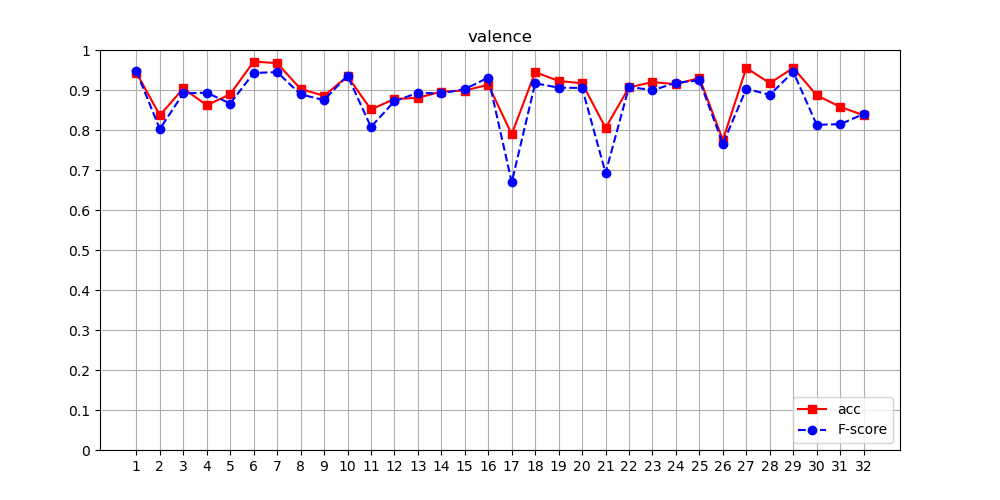
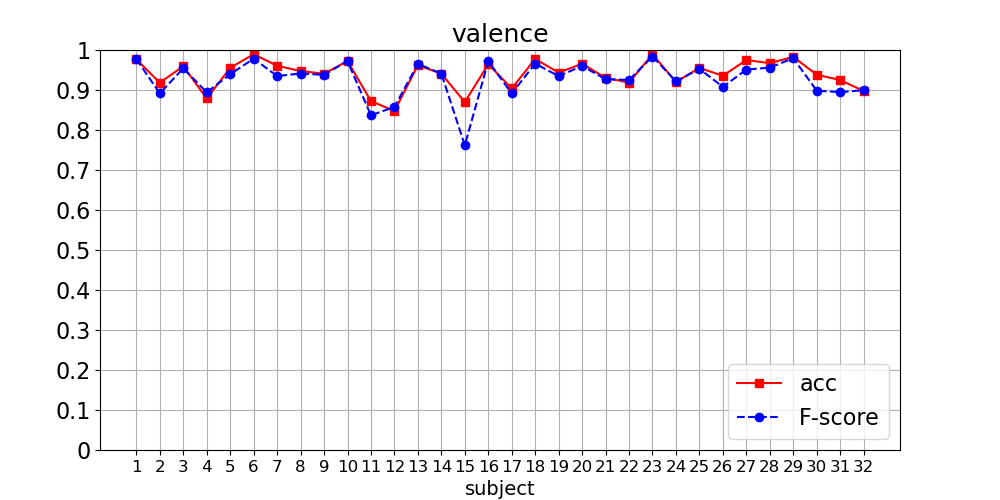
v0.4

diff --git a/train.py b/train.py
@@ -10,22 +10,34 @@ from deap import DeapDataset
 from model import ECLGCNN
 
 
-# parameters for training
 device = torch.device('cuda' if torch.cuda.is_available() else 'cpu')
 loss_fn = nn.CrossEntropyLoss().to(device)
-batch_size = 32
-max_iteration = 5000  # maximum number of iterations
-e = 0.1  # stop iteration threshold
-lr = 0.003  # learning rate
-alpha = 0.0008  # regularization coefficient
-k_fold = 5
-model_dir = './model/'
-img_dir = './imgs/'
 
-# parameters of model
-K = 2
-T = 6
-num_cells = 30
+model_dir = './model/'
+if not os.path.exists(model_dir):
+    os.mkdir(model_dir)
+
+img_dir = './imgs/'
+if not os.path.exists(img_dir):
+    os.mkdir(img_dir)
+
+seeds = range(0, 3)
+for seed in seeds:
+    model_seed_dir = model_dir + f'seed{seed}'
+    if not os.path.exists(model_seed_dir):
+        os.mkdir(model_seed_dir)
+
+    img_seed_dir = img_dir + f'seed{seed}'
+    if not os.path.exists(img_seed_dir):
+        os.mkdir(img_seed_dir)
+
+label_types = ['valence', 'arousal', 'dominance']
+params = {
+    'T': 6,
+    'batch_size': 32,
+    'max_iteration': 5000,  # maximum number of iterations
+    'k_fold': 5,
+}
 
 
 def train(model, device, train_data, train_labels, loss_fn, optimizer):
@@ -36,6 +48,7 @@ def train(model, device, train_data, train_labels, loss_fn, optimizer):
 
     model.to(device)
     model.train()
+    batch_size = params['batch_size']
 
     step = 0
     flag = True
@@ -48,9 +61,9 @@ def train(model, device, train_data, train_labels, loss_fn, optimizer):
             loss = loss_fn(output, label)
 
             if step % 100 == 0:
-                print(f'setp: {step}, Loss: {loss.item()}')
+                print(f'step: {step}, Loss: {loss.item()}')
 
-            if loss < e:
+            if loss < params['e']:
                 flag = False
                 break
 
@@ -59,7 +72,7 @@ def train(model, device, train_data, train_labels, loss_fn, optimizer):
             optimizer.step()
 
             step += 1
-            if step >= max_iteration:
+            if step >= params['max_iteration']:
                 flag = False
                 break
 
@@ -149,8 +162,32 @@ def binary_sampling(data, label):
         return selected_data, selected_label
 
 
-def subject_cross_validation(data, labels, seed):
-    splits = KFold(n_splits=k_fold, shuffle=True, random_state=seed)
+def output_figure(path, acc, f_score, title):
+    fig = plt.figure(figsize=(10, 5))
+    axes = fig.add_axes([0.1, 0.1, 0.8, 0.8])
+    x = np.arange(1, 33, dtype=int)
+
+    axes.plot(x, acc, 'rs-')  # 红色，正方形点，实线
+    axes.plot(x, f_score, 'bo--')  # 蓝色，圆点，虚线
+    axes.legend(labels=('acc', 'F-score'), loc='lower right', fontsize=16)
+
+    axes.set_ylim(0, 1)
+    axes.set_yticks(np.arange(0, 1.1, 0.1))
+    axes.set_yticklabels([0, 0.1, 0.2, 0.3, 0.4, 0.5, 0.6, 0.7, 0.8, 0.9, 1], fontsize=16)
+
+    axes.set_xticks(x)
+    axes.set_xticklabels(x, fontsize=12)
+    axes.set_xlabel('subject', fontsize=14)
+
+    axes.set_title(title, fontsize=18)
+    axes.grid(True)
+
+    fig.savefig(path)
+    fig.show()
+
+
+def cross_validation(data, labels, seed):
+    splits = KFold(n_splits=params['k_fold'], shuffle=True, random_state=seed)
 
     acc_list = []
     f_score_list = []
@@ -170,8 +207,8 @@ def subject_cross_validation(data, labels, seed):
 
         train_data, train_labels = binary_sampling(train_data, train_labels)
 
-        model = ECLGCNN(K=K, T=T, num_cells=num_cells)
-        optimizer = torch.optim.Adam(model.parameters(), lr=lr, weight_decay=alpha)
+        model = ECLGCNN(K=params['K'], T=params['T'], num_cells=params['num_cells'])
+        optimizer = torch.optim.Adam(model.parameters(), lr=params['lr'], weight_decay=params['alpha'])
 
         trained_model = train(model, device, train_data, train_labels, loss_fn, optimizer)
         fold_models.append(trained_model)
@@ -186,99 +223,75 @@ def subject_cross_validation(data, labels, seed):
     return fold_models, avg_acc, avg_f_score
 
 
-def subject_train(label_type):
-    assert label_type == 'valence' or label_type == 'arousal' or label_type == 'dominance', 'invalid label type'
+def subject_dependent_exp():
+    print('------------------------------------------------')
+    print('|         subject dependent experiment         |')
+    print('------------------------------------------------')
+
+    params['K'] = 2
+    params['num_cells'] = 30
+    params['e'] = 0.1
+    params['lr'] = 0.003
+    params['alpha'] = 0.0008
 
     dataset = DeapDataset('./data')
-    acc_arrays = []
-    f_score_arrays = []
+    avg_acc_list = []
+    avg_f_score_list = []
 
-    print(f'=============={label_type}==============')
-    for seed in range(0, 3):
-        acc_list = []
-        f_score_list = []
+    for i in range(3):
+        print(f'=============={label_types[i]}==============')
 
-        step = 1
-        for data, label in dataset:
-            print(f'-------seed {seed}, subject {step}-------')
+        acc_arrays = []
+        f_score_arrays = []
 
-            if label_type == 'valence':
-                used_label = label[:, 0]
-            elif label_type == 'arousal':
-                used_label = label[:, 1]
-            else:
-                used_label = label[:, 2]
+        for seed in seeds:
+            acc_list = []
+            f_score_list = []
 
-            model_path = model_dir + f'seed{seed}/model_{step}_{label_type}.pt'
-            if os.path.exists(model_path):
-                print('model already exists, loading...')
-                trained_models, acc, f_score = torch.load(model_path)
-                print('model loaded.')
-            else:
-                trained_models, acc, f_score = subject_cross_validation(data, used_label, seed)
-                torch.save([trained_models, acc, f_score], model_path)
-                print('model saved.')
+            step = 1
+            for data, label in dataset:
+                print(f'-------seed {seed}, subject {step}-------')
+                used_label = label[:, i]
 
-            acc_list.append(acc)
-            f_score_list.append(f_score)
-            print(f'avg_acc: {acc}, avg_f_score: {f_score}')
+                model_path = model_dir + f'seed{seed}/model_{step}_{label_types[i]}.pt'
+                if os.path.exists(model_path):
+                    print('model already exists, loading...')
+                    trained_models, acc, f_score = torch.load(model_path)
+                    print('model loaded.')
+                else:
+                    trained_models, acc, f_score = cross_validation(data, used_label, seed)
+                    torch.save([trained_models, acc, f_score], model_path)
+                    print('model saved.')
 
-            step += 1
+                acc_list.append(acc)
+                f_score_list.append(f_score)
+                print(f'avg_acc: {acc}, avg_f_score: {f_score}')
 
-        acc_array = np.array(acc_list)
-        f_score_array = np.array(f_score_list)
-        img_path = img_dir + f'seed{seed}/dependent_{label_type}.png'
-        output_figure(img_path, acc_array, f_score_array, f'{label_type}')
+                step += 1
 
-        acc_arrays.append(acc_array)
-        f_score_arrays.append(f_score_array)
+            acc_array = np.array(acc_list)
+            f_score_array = np.array(f_score_list)
+            img_path = img_dir + f'seed{seed}/dependent_{label_types[i]}.png'
+            output_figure(img_path, acc_array, f_score_array, f'{label_types[i]}')
 
-    return acc_arrays, f_score_arrays
+            acc_arrays.append(acc_array)
+            f_score_arrays.append(f_score_array)
 
+        # calculate the average Acc and F-score of 3 seeds
+        avg_acc = sum(acc_arrays) / len(acc_arrays)
+        avg_acc_list.append(avg_acc)
 
-def output_figure(path, acc, f_score, title):
-    fig = plt.figure(figsize=(10, 5))
-    axes = fig.add_axes([0.1, 0.1, 0.8, 0.8])
-    x = np.arange(1, 33, dtype=int)
+        avg_f_score = sum(f_score_arrays) / len(f_score_arrays)
+        avg_f_score_list.append(avg_f_score)
 
-    axes.plot(x, acc, 'rs-')  # 红色，正方形点，实线
-    axes.plot(x, f_score, 'bo--')  # 蓝色，圆点，虚线
-    axes.legend(labels=('acc', 'F-score'), loc='lower right')
-
-    axes.set_ylim(0, 1)
-    axes.set_yticks(np.arange(0, 1.1, 0.1))
-    axes.set_yticklabels([0, 0.1, 0.2, 0.3, 0.4, 0.5, 0.6, 0.7, 0.8, 0.9, 1])
-
-    axes.set_xticks(x)
-    axes.set_xticklabels(x)
-
-    axes.set_title(title)
-    axes.grid(True)
-
-    fig.savefig(path)
-    fig.show()
-
-
-def subject_dependent_exp():
-    valence_acc, valence_f_score = subject_train('valence')
-    avg_valence_acc = sum(valence_acc) / len(valence_acc)
-    avg_valence_f_score = sum(valence_f_score) / len(valence_f_score)
-    output_figure('./imgs/dependent_valence_avg.png', avg_valence_acc, avg_valence_f_score, 'valence_avg')
-
-    arousal_acc, arousal_f_score = subject_train('arousal')
-    avg_arousal_acc = sum(arousal_acc) / len(arousal_acc)
-    avg_arousal_f_score = sum(arousal_f_score) / len(arousal_f_score)
-    output_figure('./imgs/dependent_arousal_avg.png', avg_arousal_acc, avg_arousal_f_score, 'arousal_avg')
-
-    dominance_acc, dominance_f_score = subject_train('dominance')
-    avg_dominance_acc = sum(dominance_acc) / len(dominance_acc)
-    avg_dominance_f_score = sum(dominance_f_score) / len(dominance_f_score)
-    output_figure('./imgs/dependent_dominance_avg.png', avg_dominance_acc, avg_dominance_f_score, 'dominance_avg')
+        output_figure(f'./imgs/dependent_{label_types[i]}_avg.png', avg_acc, avg_f_score, f'{label_types[i]}_avg')
 
     print('-------------------RESULT-------------------')
-    print(f'[valence]: avg_acc = {np.mean(avg_valence_acc)}, avg_f_score = {np.mean(avg_valence_f_score)}')
-    print(f'[arousal]: avg_acc = {np.mean(avg_arousal_acc)}, avg_f_score = {np.mean(avg_arousal_f_score)}')
-    print(f'[dominance]: avg_acc = {np.mean(avg_dominance_acc)}, avg_f_score = {np.mean(avg_dominance_f_score)}')
+    for i in range(3):
+        print(f'{label_types[i]}')
+        print(f'    acc: {avg_acc_list[i]}')
+        print(f'    f-score: {avg_f_score_list[i]}')
+        print(f'    avg_acc = {np.mean(avg_acc_list[i])}, avg_f_score = {np.mean(avg_f_score_list[i])}')
 
 
 if __name__ == '__main__':

diff --git a/model.py b/model.py
@@ -26,6 +26,7 @@ class ECLGCNN(nn.Module):
 
         self.sigmoid1 = nn.Sigmoid()
         self.lstm = nn.LSTM(32 * 5, num_cells, batch_first=True)
+        self.batch_norm1 = nn.BatchNorm1d(self.T)
         self.sigmoid2 = nn.Sigmoid()
         self.linear = nn.Linear(num_cells * self.T, 2)
         self.sigmoid3 = nn.Sigmoid()
@@ -61,6 +62,7 @@ class ECLGCNN(nn.Module):
         y = y.transpose(0, 1)
         y = torch.reshape(y, (batch_size, self.T, -1))
         y, (h, c) = self.lstm(y)
+        y = self.batch_norm1(y)
         y = self.sigmoid2(y)
 
         # Dense layer
